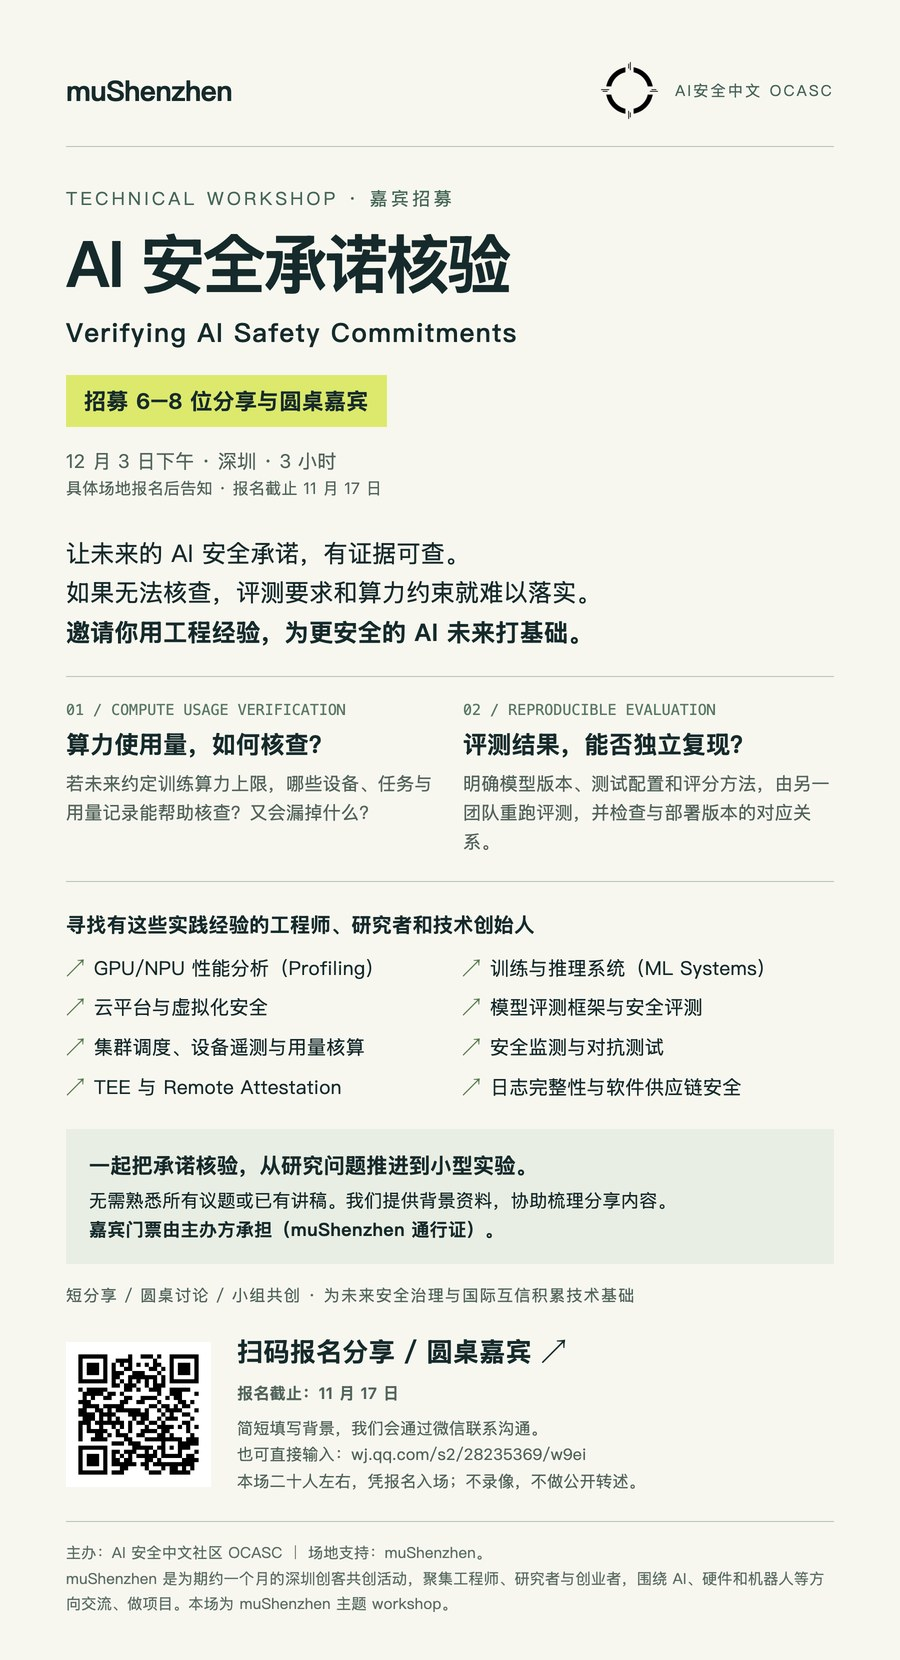
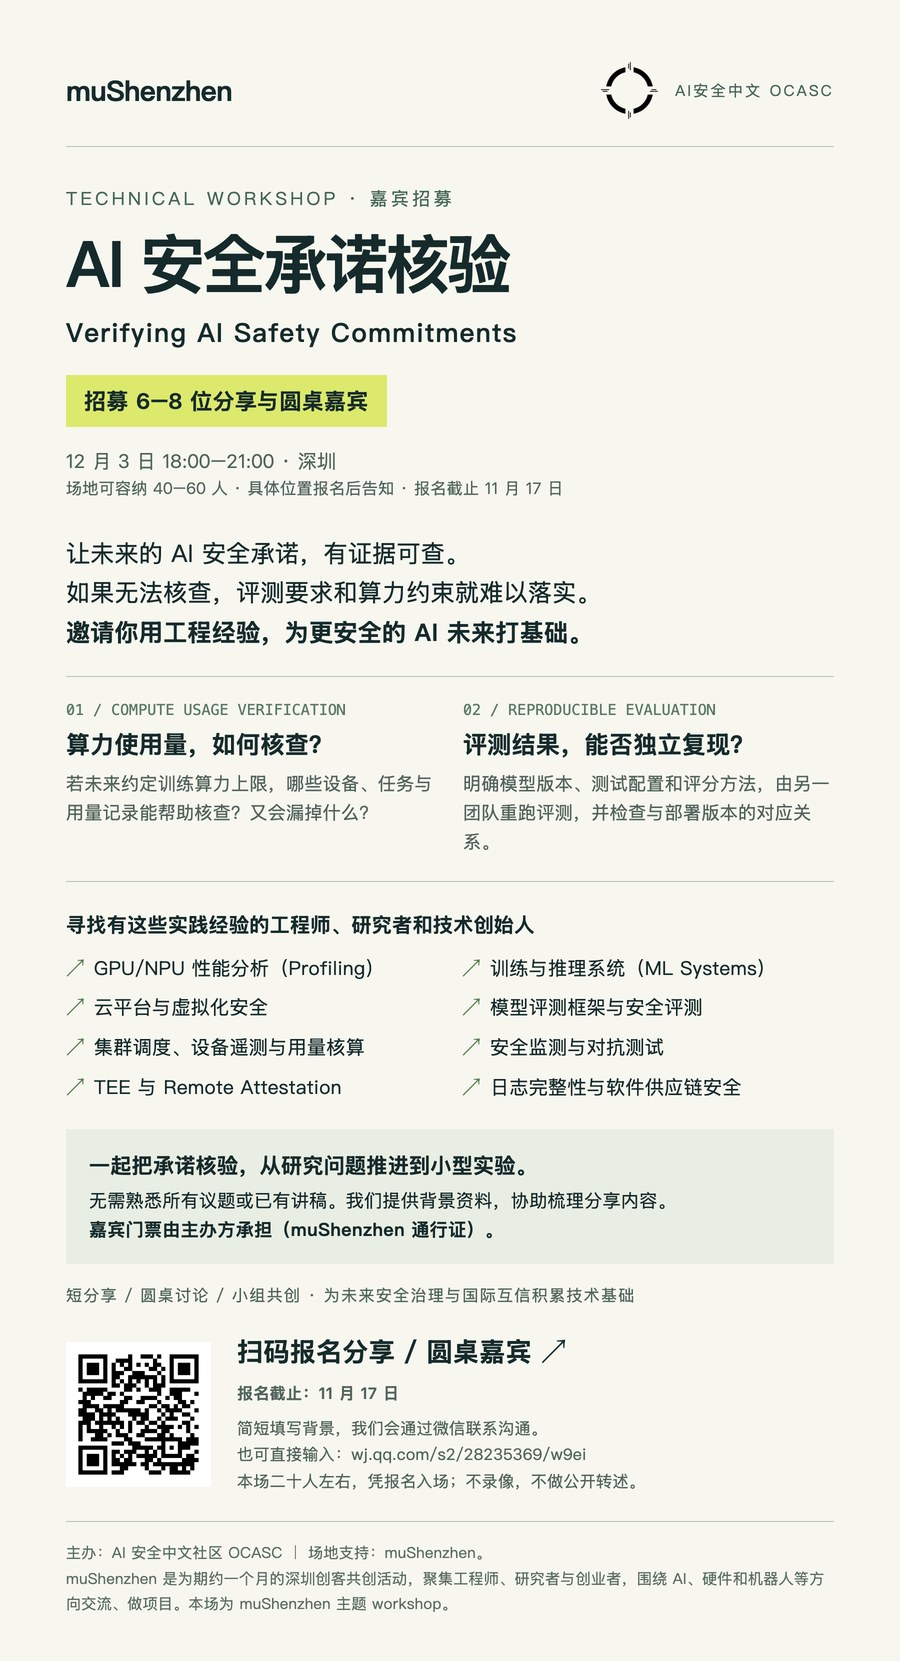
update(workshop): 时间改 18:00–21:00（晚上），场地可容纳 40–60 人；海报 v5、og 图重出

diff --git a/app/workshop/page.tsx b/app/workshop/page.tsx
@@ -16,7 +16,7 @@ export default function WorkshopPage() {
           我们想请一批对 AI 安全和验证技术感兴趣的人，用三个小时讨论一件事：怎么设计一套真能用起来的验证流程。
         </p>
         <div className="ws-meta">
-          <span>12 月 3 日下午 · 深圳</span>
+          <span>12 月 3 日 18:00–21:00 · 深圳</span>
           <span>OCASC × muShenzhen</span>
         </div>
       </header>
@@ -94,7 +94,7 @@ export default function WorkshopPage() {
 
           <section className="ws-section">
             <p className="ws-num">03</p>
-            <h2>那天下午怎么过</h2>
+            <h2>那天晚上怎么过</h2>
             <p>
               第一个小时，请三到四位做过验收测试、集群运维、远程证明（remote attestation）的工程师各讲十分钟上下，说自己怎么做、哪一步会卡住。后面两个小时按上面四条逐条讨论，这套流程在技术上怎么设计，哪一条现在做不到，是技术上做不了，还是没人负责做。
             </p>
@@ -109,7 +109,7 @@ export default function WorkshopPage() {
             <p>
               更适合做过验收测试、集群调度、远程证明（remote attestation）、日志完整性的工程师，也欢迎买方负责算力项目审核的同行，这些材料最后要由你们拿去核对。
             </p>
-            <p>名额有限，请确认那天下午真的能腾出三个小时。带着一个你实际遇到的卡点来，讨论会更有收获。</p>
+            <p>名额有限，请确认那天晚上真的能腾出三个小时。带着一个你实际遇到的卡点来，讨论会更有收获。</p>
           </section>
 
           <section className="ws-section">
@@ -128,15 +128,15 @@ export default function WorkshopPage() {
               <div>
                 <dt>时间</dt>
                 <dd>
-                  12 月 3 日下午，三小时
-                  <span>起止时间报名后告知</span>
+                  12 月 3 日 18:00–21:00
+                  <span>晚上，三小时</span>
                 </dd>
               </div>
               <div>
                 <dt>地点</dt>
                 <dd>
                   深圳
-                  <span>具体场地报名后告知</span>
+                  <span>场地可容纳 40–60 人，具体位置报名后告知</span>
                 </dd>
               </div>
               <div>

diff --git a/app/workshop/en/page.tsx b/app/workshop/en/page.tsx
@@ -32,7 +32,7 @@ export default function WorkshopPageEn() {
           discuss a single question: what would a verification process look like that actually works?
         </p>
         <div className="ws-meta">
-          <span>3 December, afternoon · Shenzhen</span>
+          <span>18:00–21:00, 3 December · Shenzhen</span>
           <span>OCASC × muShenzhen</span>
         </div>
       </header>
@@ -177,7 +177,7 @@ export default function WorkshopPageEn() {
 
           <section className="ws-section">
             <p className="ws-num">03</p>
-            <h2>How the afternoon runs</h2>
+            <h2>How the evening runs</h2>
             <p>
               In the first hour, three or four engineers who have done acceptance testing, cluster
               operations or remote attestation each speak for about ten minutes: how they do it, where it
@@ -227,15 +227,15 @@ export default function WorkshopPageEn() {
               <div>
                 <dt>Time</dt>
                 <dd>
-                  3 December, afternoon, three hours
-                  <span>exact times sent after registration</span>
+                  18:00–21:00, 3 December
+                  <span>three hours, in the evening</span>
                 </dd>
               </div>
               <div>
                 <dt>Place</dt>
                 <dd>
                   Shenzhen
-                  <span>venue sent after registration</span>
+                  <span>venue holds 40–60 people; location sent after registration</span>
                 </dd>
               </div>
               <div>

diff --git a/app/workshop/layout.tsx b/app/workshop/layout.tsx
@@ -4,7 +4,7 @@ import "./workshop.css";
 export const metadata: Metadata = {
   title: "AI 安全承诺核验 · 12 月 3 日 深圳",
   description:
-    "12 月 3 日下午，深圳，一次二十人左右的小范围技术讨论：机房验收合格、钱付完之后，还有没有办法核对机器是不是当初那批。",
+    "12 月 3 日晚上，深圳，一次二十人左右的小范围技术讨论：机房验收合格、钱付完之后，还有没有办法核对机器是不是当初那批。",
   // 备案审核期（2026-11-01 起）先不进索引，下号后再放开
   robots: { index: false, follow: true },
   openGraph: {
